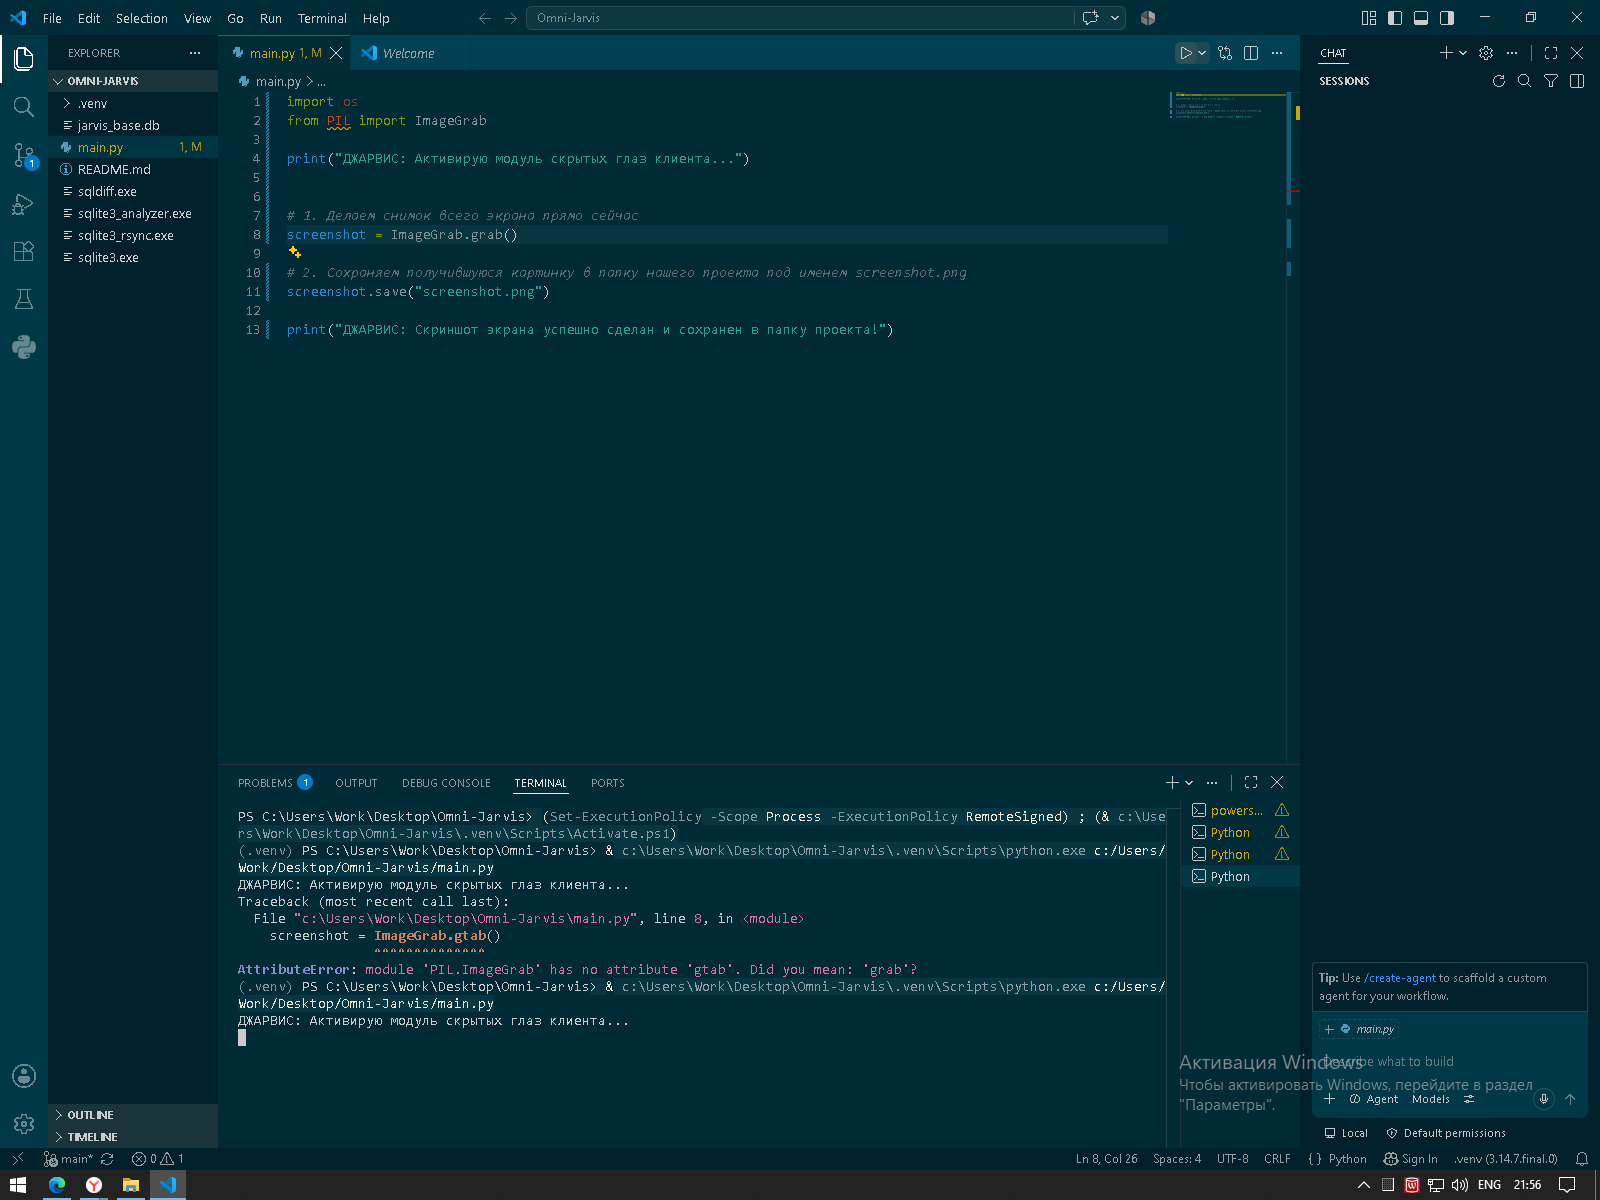
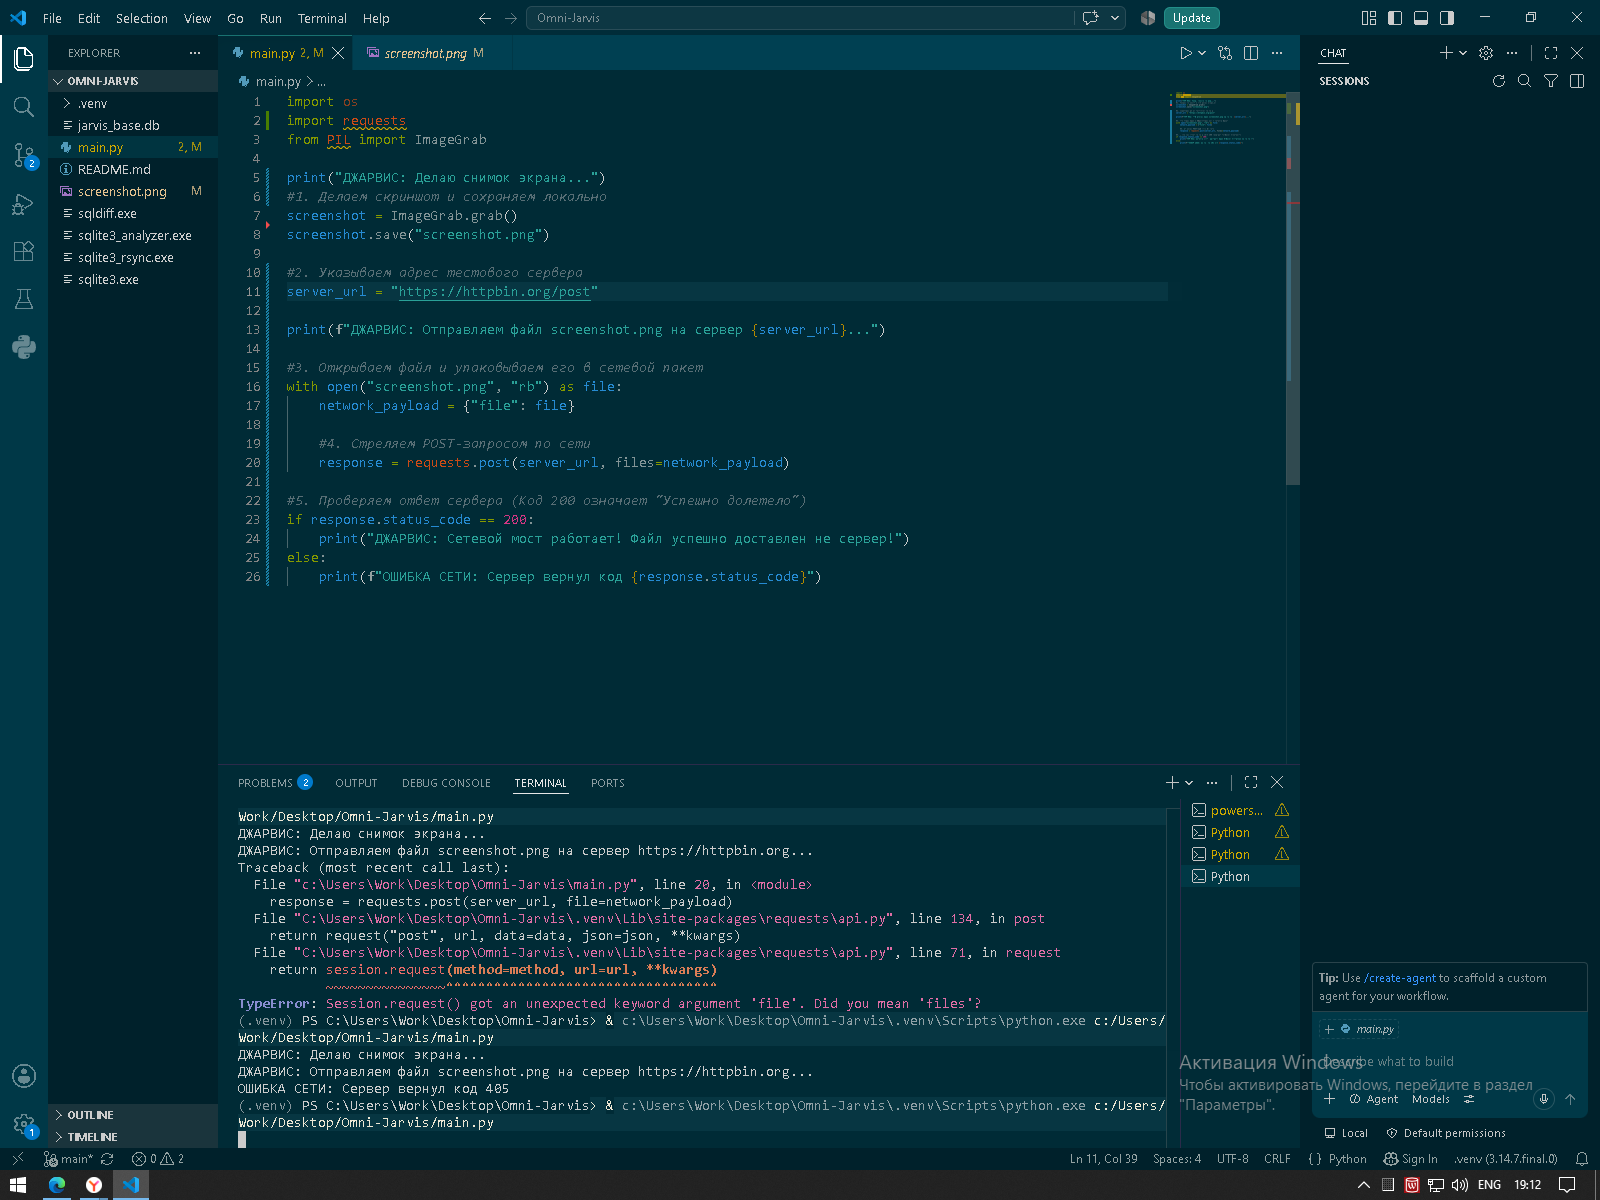
Successfully implemented client network bridge using requests library and tested with HTTP POST

diff --git a/main.py b/main.py
@@ -1,13 +1,26 @@
 import os
+import requests
 from PIL import ImageGrab
 
-print("ДЖАРВИС: Активирую модуль скрытых глаз клиента...")
-
-
-# 1. Делаем снимок всего экрана прямо сейчас
+print("ДЖАРВИС: Делаю снимок экрана...")
+#1. Делаем скриншот и сохраняем локально
 screenshot = ImageGrab.grab()
-
-# 2. Сохраняем получившуюся картинку в папку нашего проекта под именем screenshot.png
 screenshot.save("screenshot.png")
 
-print("ДЖАРВИС: Скриншот экрана успешно сделан и сохранен в папку проекта!")
+#2. Указываем адрес тестового сервера
+server_url = "https://httpbin.org/post"
+
+print(f"ДЖАРВИС: Отправляем файл screenshot.png на сервер {server_url}...")
+
+#3. Открываем файл и упаковываем его в сетевой пакет
+with open("screenshot.png", "rb") as file:
+    network_payload = {"file": file}
+
+    #4. Стреляем POST-запросом по сети
+    response = requests.post(server_url, files=network_payload)
+
+#5. Проверяем ответ сервера (Код 200 означает "Успешно долетело")
+if response.status_code == 200:
+    print("ДЖАРВИС: Сетевой мост работает! Файл успешно доставлен не сервер!")
+else:
+    print(f"ОШИБКА СЕТИ: Сервер вернул код {response.status_code}")
